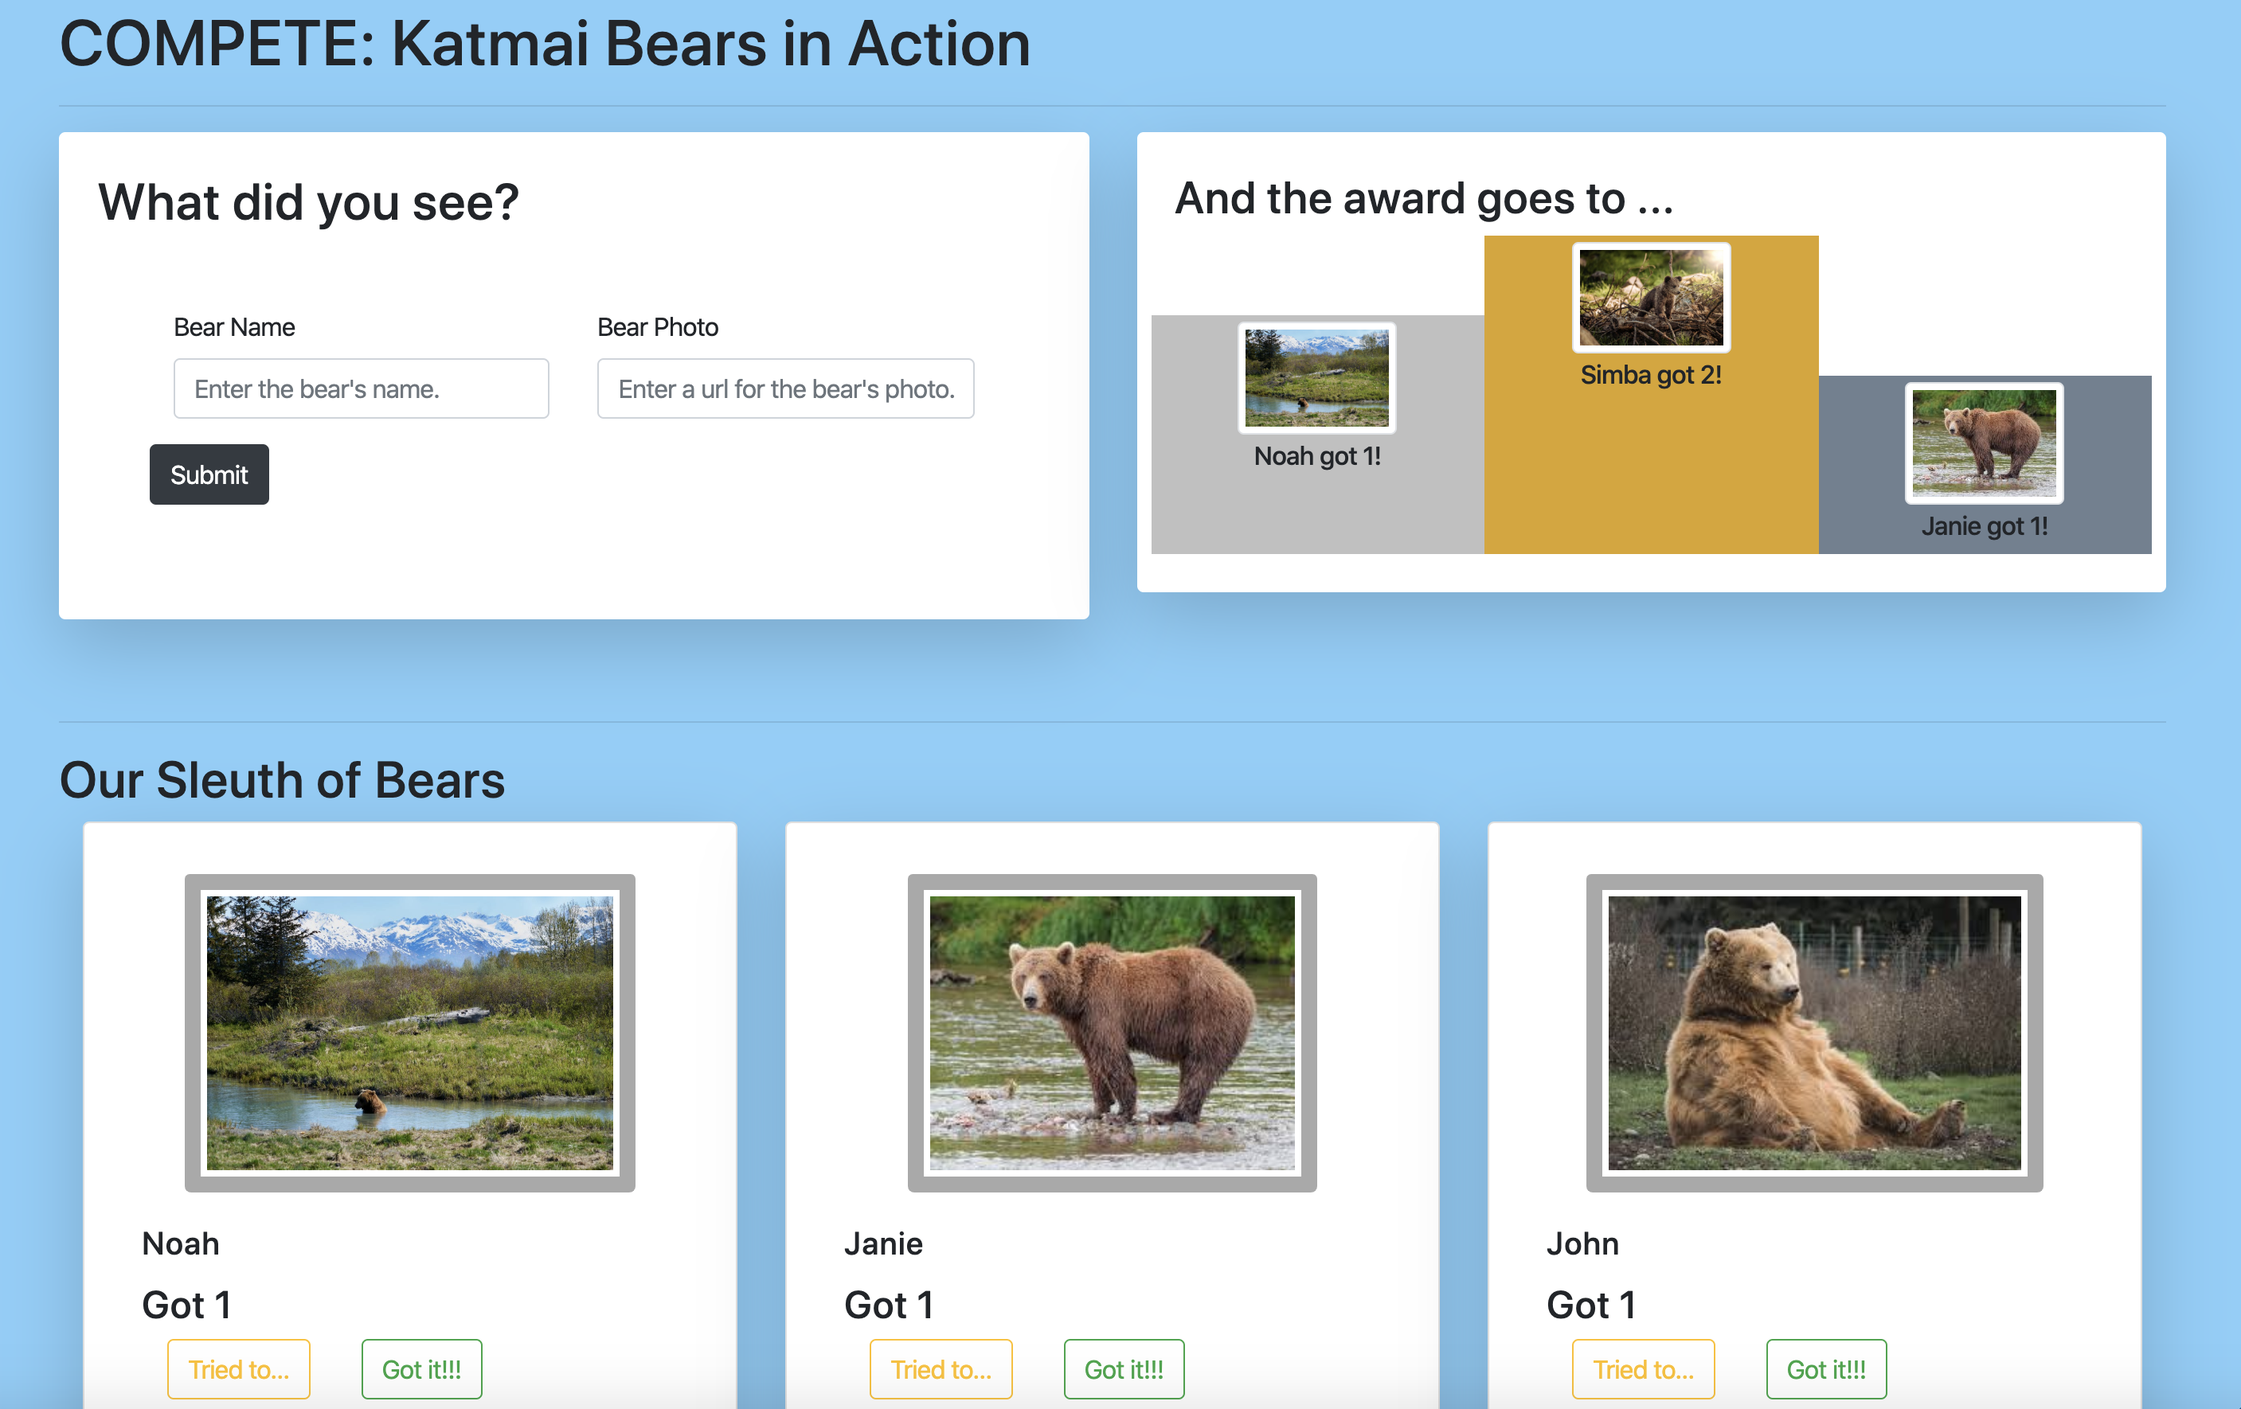
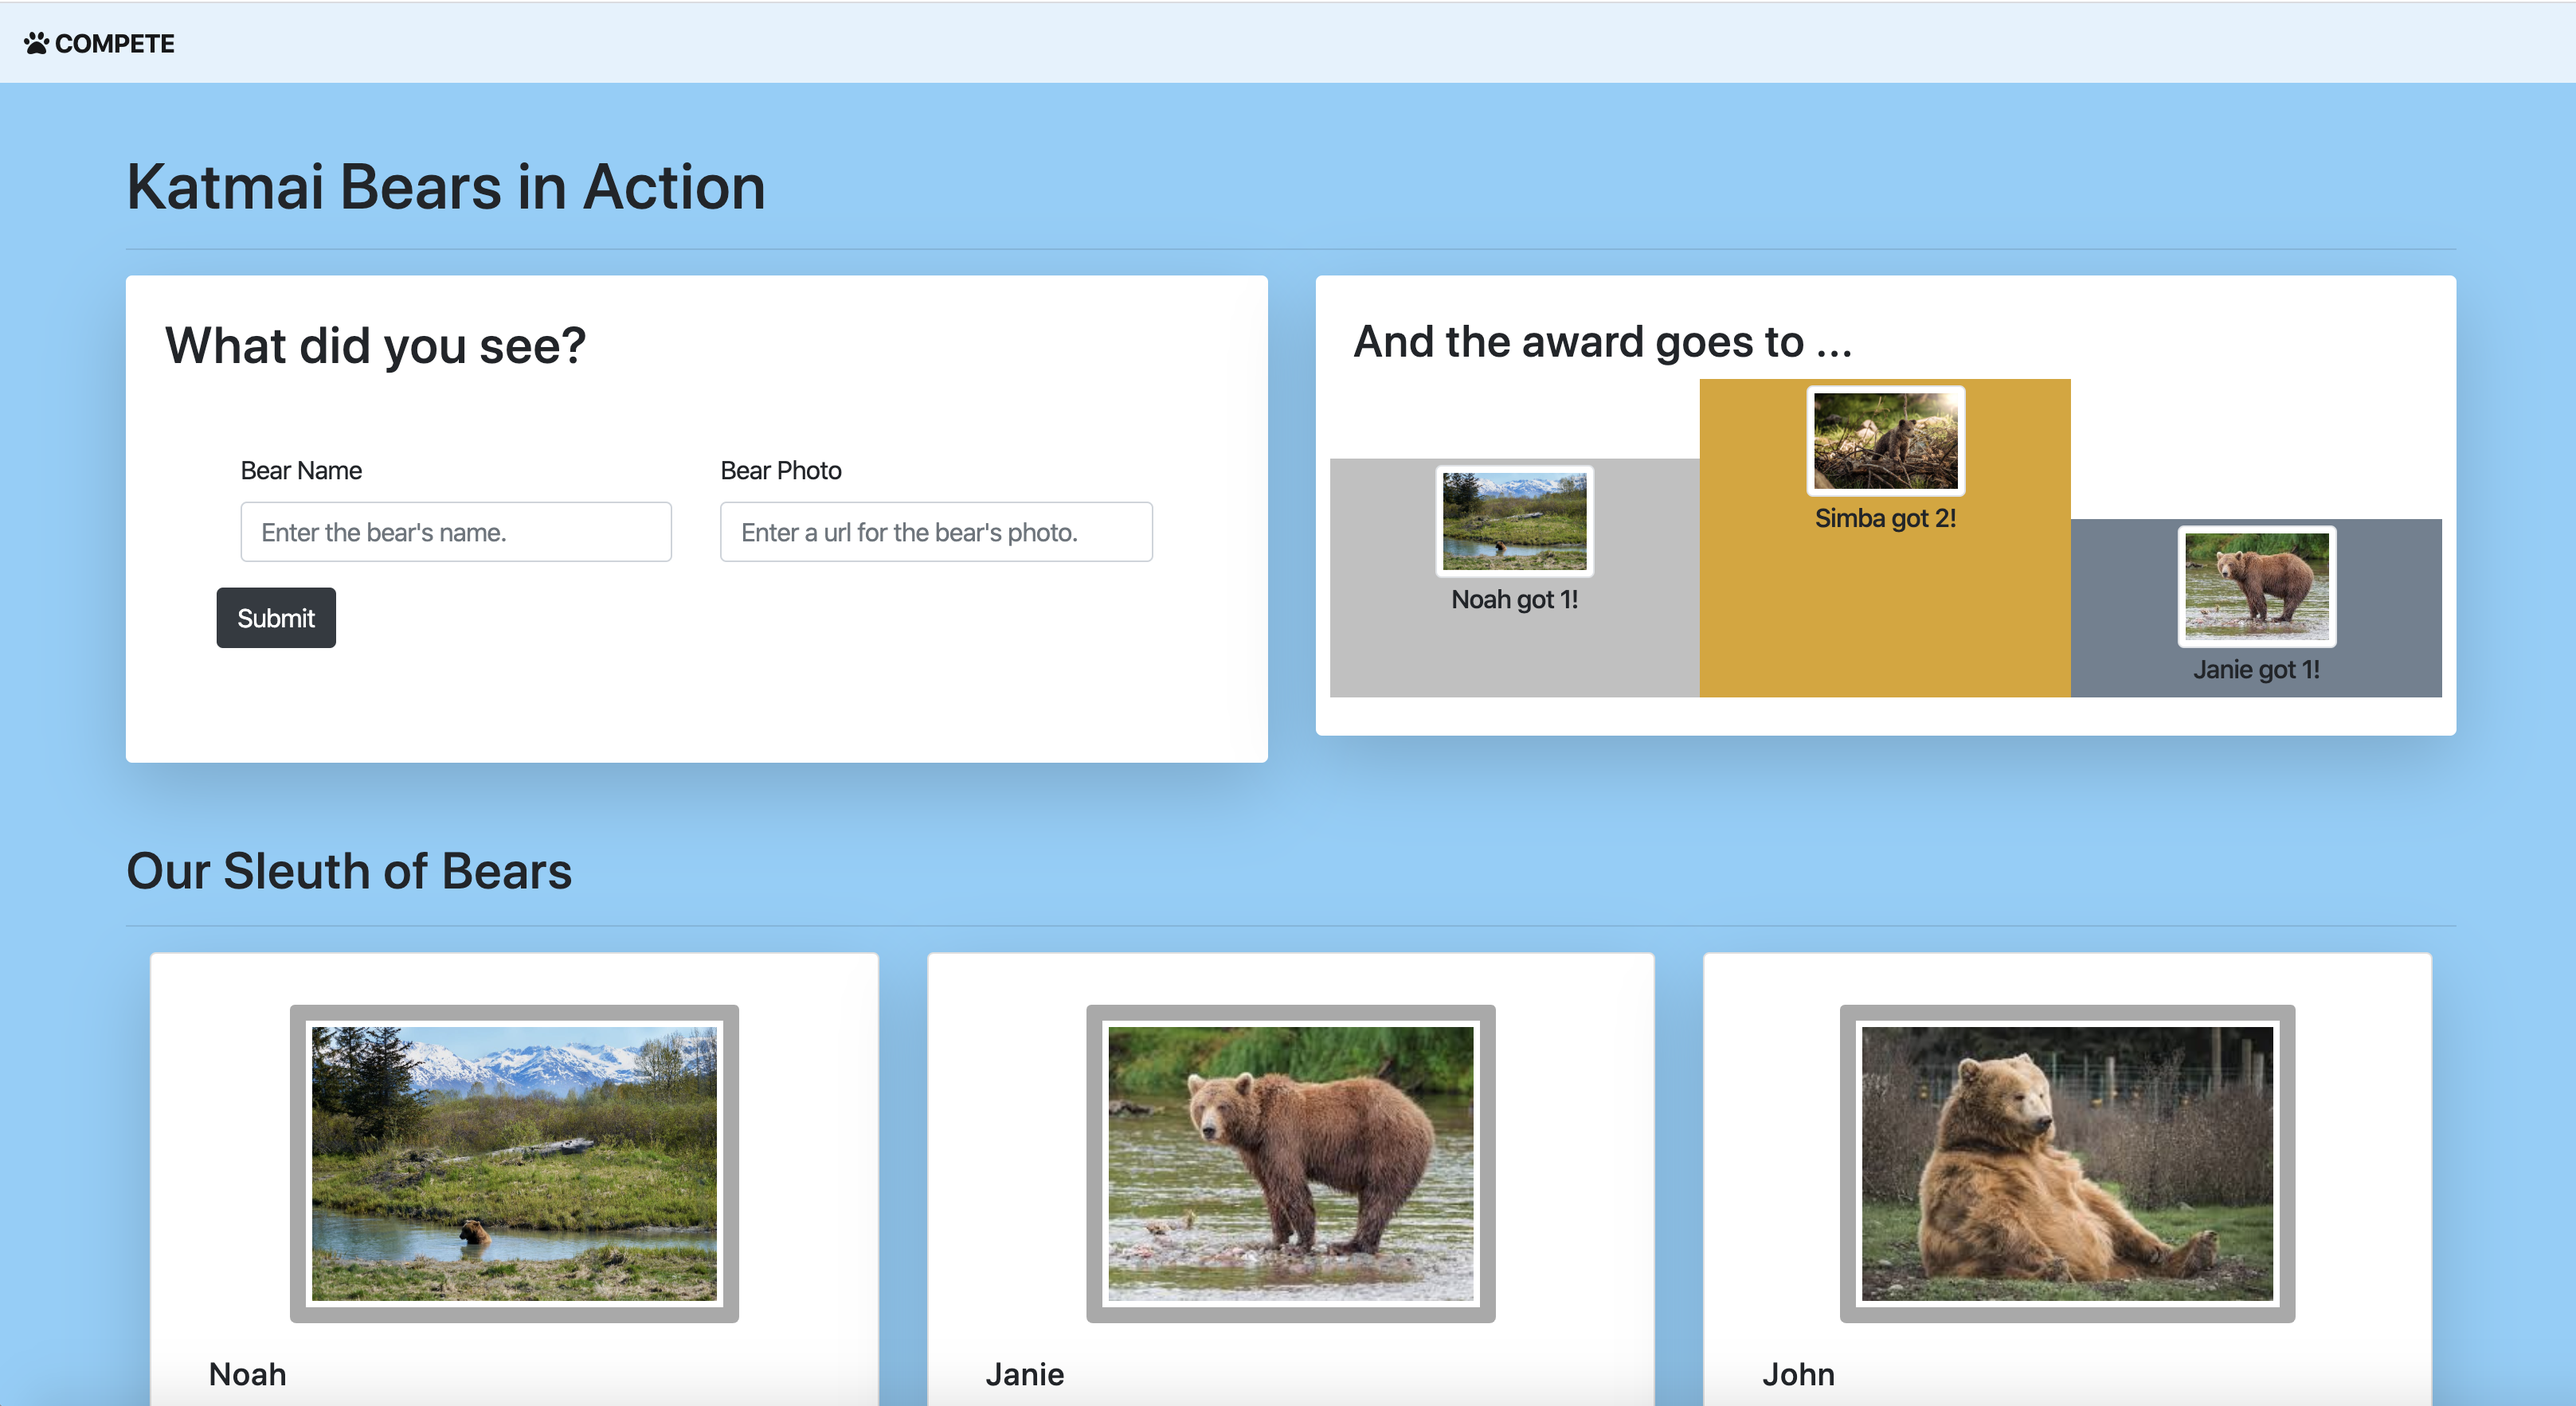
updated nav

diff --git a/index.html b/index.html
@@ -9,13 +9,20 @@
     <title>Compete</title>
 </head>
 <body>
-    <h1>COMPETE: Katmai Bears in Action</h1>
+
+<!-- As a link -->
+<nav class="navbar navbar-light" style="background-color: #e3f2fd;">
+  <a class="navbar-brand logo" href="#"><i class="fas fa-paw"></i> Compete</a>
+</nav>
+<div class="section">
+    <h1>Katmai Bears in Action</h1>
     <hr></hr>
     <div class="row">
         <div id="bear-form" class="col-md-6"></div>
         <div id="awards-section" class="col-md-6"></div>
     </div>
-    <hr></hr>
+  </div>
+    
     <div class="modal fade show" id="validationTextInput" tabindex="-1" role="dialog" aria-labelledby="validationTextTitle" aria-hidden="true">
         <div class="modal-dialog" role="document">
           <div class="modal-content">
@@ -33,7 +40,7 @@
       </div>
     </div>
 
-    <div id="bear-container"></div>
+    <div id="bear-container" class="section"></div>
     
 
     <script src="https://code.jquery.com/jquery-3.4.1.slim.min.js" integrity="sha384-J6qa4849blE2+poT4WnyKhv5vZF5SrPo0iEjwBvKU7imGFAV0wwj1yYfoRSJoZ+n" crossorigin="anonymous"></script>

diff --git a/javascripts/components/river.js b/javascripts/components/river.js
@@ -86,6 +86,7 @@ const buildBearActivityTable = (activities) => {
 const buildBearSleuth = () => {
     const allBears = bearData.getBears();
     let domString = `<h2>Our Sleuth of Bears</h2>`;
+    domString += '<hr></hr>';
     domString += '<div class="d-flex flex-wrap">';
     for (let i = 0; i < allBears.length; i++) {
       domString += '<div class="col-md-4 mb-2">';  

diff --git a/styles/main.css b/styles/main.css
@@ -1,6 +1,20 @@
 body {
     background-color: lightskyblue;
-    padding: 3em;
+}
+
+.section {
+    margin-left: 5em;
+    margin-right: 5em;
+}
+
+h1 {
+    margin-top: 1em;
+}
+
+.logo {
+    text-transform: uppercase;
+    font-size: 1em;
+    font-weight: bolder;
 }
 
 .image {
